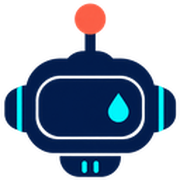
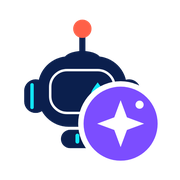
Saját témaikon a böngészőfülön (sadrobot robot + szikra jelvény; SVG, ICO, 32 px, Apple)

diff --git a/index.html b/index.html
@@ -8,9 +8,10 @@
     <meta name="description" content="Daily worldwide AI briefing: models, research, agents, AI security, safety, EU regulation and industry." />
     <meta name="color-scheme" content="light dark" />
     <title>sadrobot AI Daily</title>
-    <link rel="icon" href="/favicon.ico?v=2" sizes="any" />
-    <link rel="icon" type="image/png" href="/sadrobot.png?v=2" />
-    <link rel="apple-touch-icon" href="/apple-touch-icon.png" />
+    <link rel="icon" href="/favicon.svg?v=3" type="image/svg+xml" />
+    <link rel="icon" href="/favicon.ico?v=3" sizes="16x16 32x32 48x48" />
+    <link rel="icon" type="image/png" sizes="32x32" href="/favicon-32.png?v=3" />
+    <link rel="apple-touch-icon" href="/apple-touch-icon.png?v=3" />
   </head>
   <body>
     <div id="root"></div>
